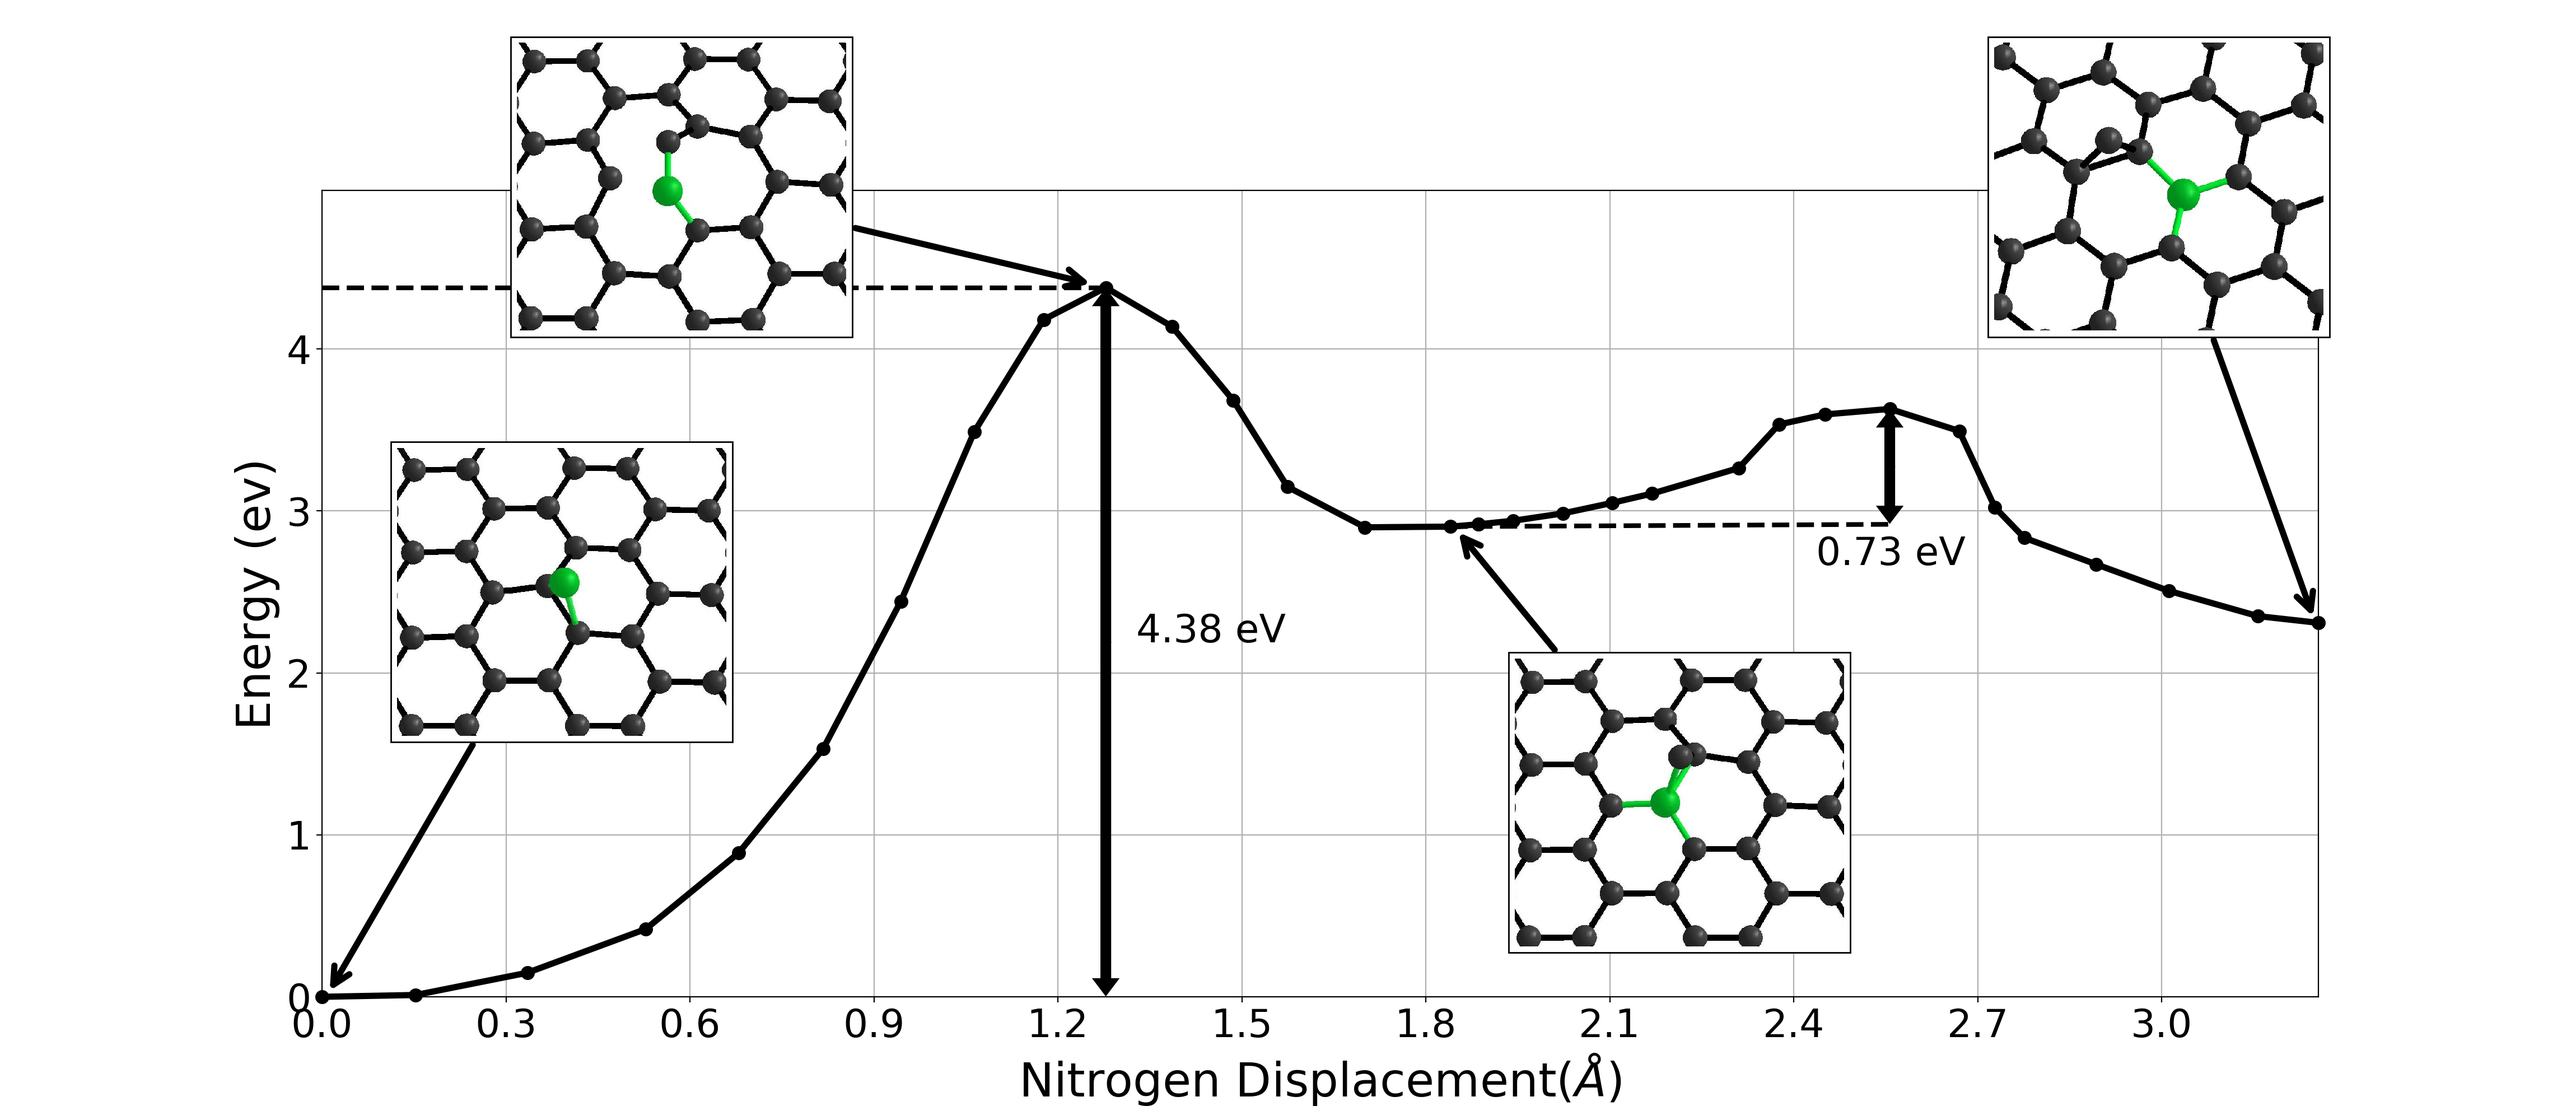
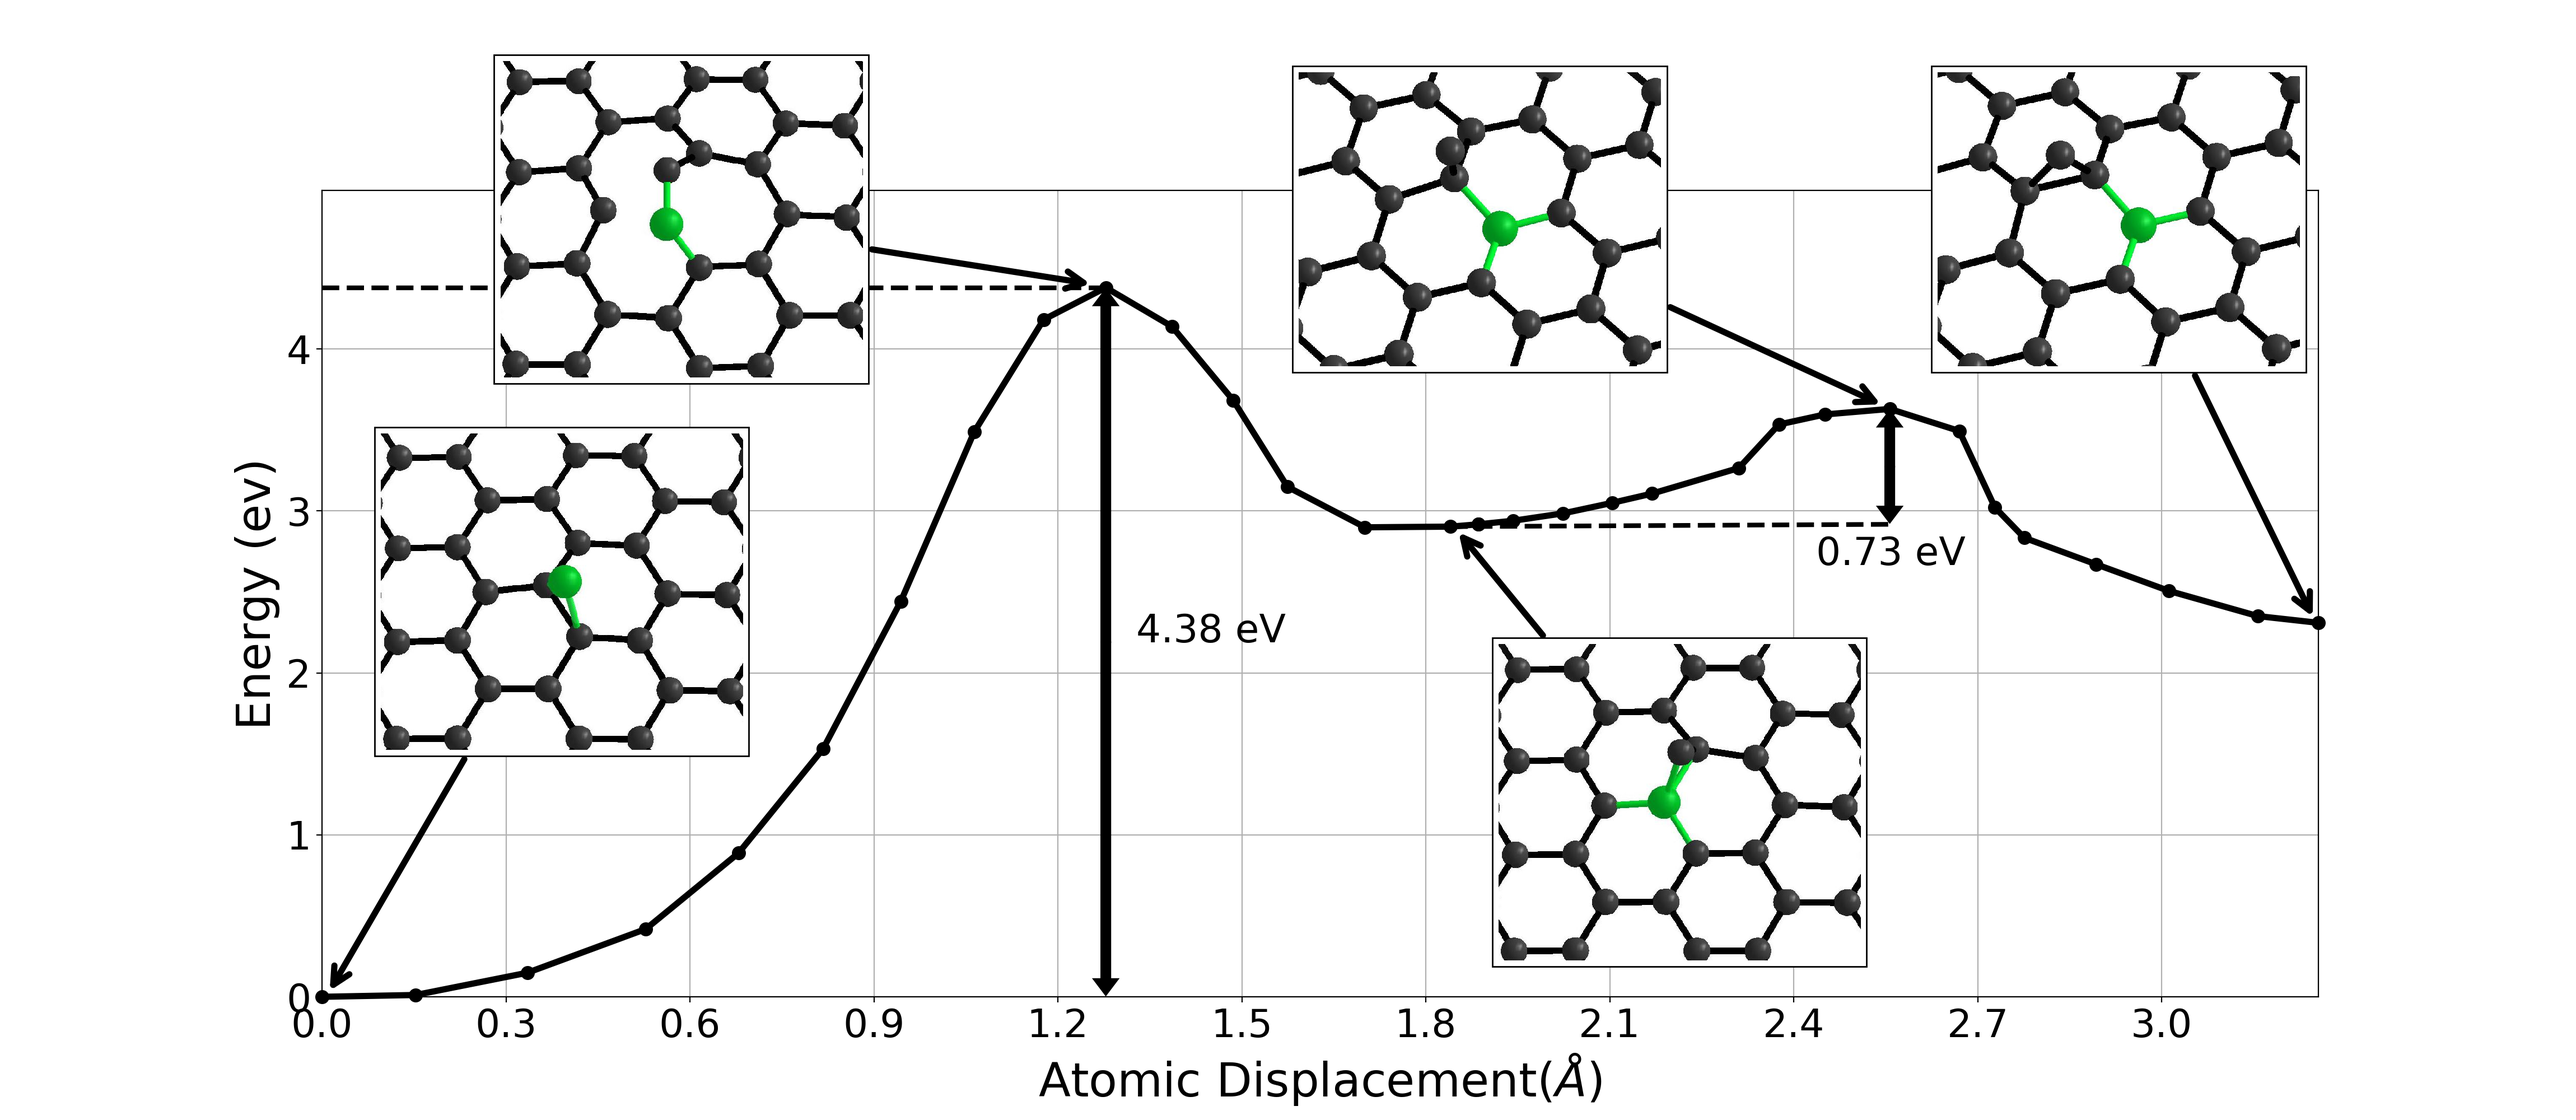
figure sc2_direct nouvelles images

diff --git a/figures/sc2_direct/figure_sc2_direct.py b/figures/sc2_direct/figure_sc2_direct.py
@@ -17,7 +17,7 @@ fig, ax = plt.subplots(figsize=[23, 10])
 # Set axis
 ax.set_xlim(distances1[0], distances2[-1])
 ax.set_ylim(0, np.max(reaction1) + 0.6)
-ax.set_xlabel("Nitrogen Displacement($\AA$)", fontsize=30)
+ax.set_xlabel("Atomic Displacement($\AA$)", fontsize=30)
 ax.set_ylabel("Energy (ev)", fontsize=30)
 
 ax.xaxis.set_ticks(np.arange(distances1[0], distances2[-1], 0.3))
@@ -36,8 +36,18 @@ max2 = np.argmax(reaction2)
 
 h = (reaction2[0] + reaction2[max2]) / 2
 
-ax.plot([distances1[0], distances1[max1]], [reaction1[max1], reaction1[max1]], "--k", linewidth=3)
-ax.plot([distances1[-2], distances2[max2]], [reaction1[-2], reaction1[-1]], "--k", linewidth=3)
+ax.plot(
+    [distances1[0], distances1[max1]],
+    [reaction1[max1], reaction1[max1]],
+    "--k",
+    linewidth=3,
+)
+ax.plot(
+    [distances1[-2], distances2[max2]],
+    [reaction1[-2], reaction1[-1]],
+    "--k",
+    linewidth=3,
+)
 ax.arrow(
     distances1[max1],
     reaction1[max1] / 2,
@@ -99,17 +109,20 @@ ax.text(
 image1 = Image.open("posinp1.jpg")
 image2 = Image.open("posinp10.jpg")
 image3 = Image.open("posinp17.jpg")
-image5 = Image.open("posinp33.jpg")
+image4 = Image.open("posinp24.jpg")
+image5 = Image.open("posinp32.jpg")
 
-zoom = 0.3
+zoom, zoom2 = 0.33, 0.27
 imagebox1 = OffsetImage(image1, zoom=zoom)
 imagebox2 = OffsetImage(image2, zoom=zoom)
 imagebox3 = OffsetImage(image3, zoom=zoom)
-imagebox5 = OffsetImage(image5, zoom=zoom)
+imagebox4 = OffsetImage(image4, zoom=zoom2)
+imagebox5 = OffsetImage(image5, zoom=zoom2)
 
 imagebox1.image.axes = ax
 imagebox2.image.axes = ax
 imagebox3.image.axes = ax
+imagebox4.image.axes = ax
 imagebox5.image.axes = ax
 
 ab1 = AnnotationBbox(
@@ -121,7 +134,7 @@ ab1 = AnnotationBbox(
 ab2 = AnnotationBbox(
     imagebox2,
     [distances1[max1] - 0.02, reaction1[max1] + 0.02],
-    xybox=[0.18 * distances2[-1], 5],
+    xybox=[0.18 * distances2[-1], 4.8],
     arrowprops=dict(arrowstyle="->", linewidth=4),
 )
 ab3 = AnnotationBbox(
@@ -130,18 +143,25 @@ ab3 = AnnotationBbox(
     xybox=[0.68 * distances2[-1], 1.2],
     arrowprops=dict(arrowstyle="->", linewidth=4),
 )
+ab4 = AnnotationBbox(
+    imagebox4,
+    [distances2[max2] - 0.01, reaction2[max2] + 0.02],
+    xybox=[0.58 * distances2[-1], 4.8],
+    arrowprops=dict(arrowstyle="->", linewidth=4),
+)
 ab5 = AnnotationBbox(
     imagebox5,
     [distances2[-1] - 0.007, reaction2[-1] + 0.02],
-    xybox=[0.92 * distances2[-1], 5],
+    xybox=[0.9 * distances2[-1], 4.8],
     arrowprops=dict(arrowstyle="->", linewidth=4),
 )
 
 ax.add_artist(ab1)
 ax.add_artist(ab2)
 ax.add_artist(ab3)
+ax.add_artist(ab4)
 ax.add_artist(ab5)
 
 # Show or save figure
-#plt.show()
+# plt.show()
 plt.savefig("sc2_direct", dpi=200)
